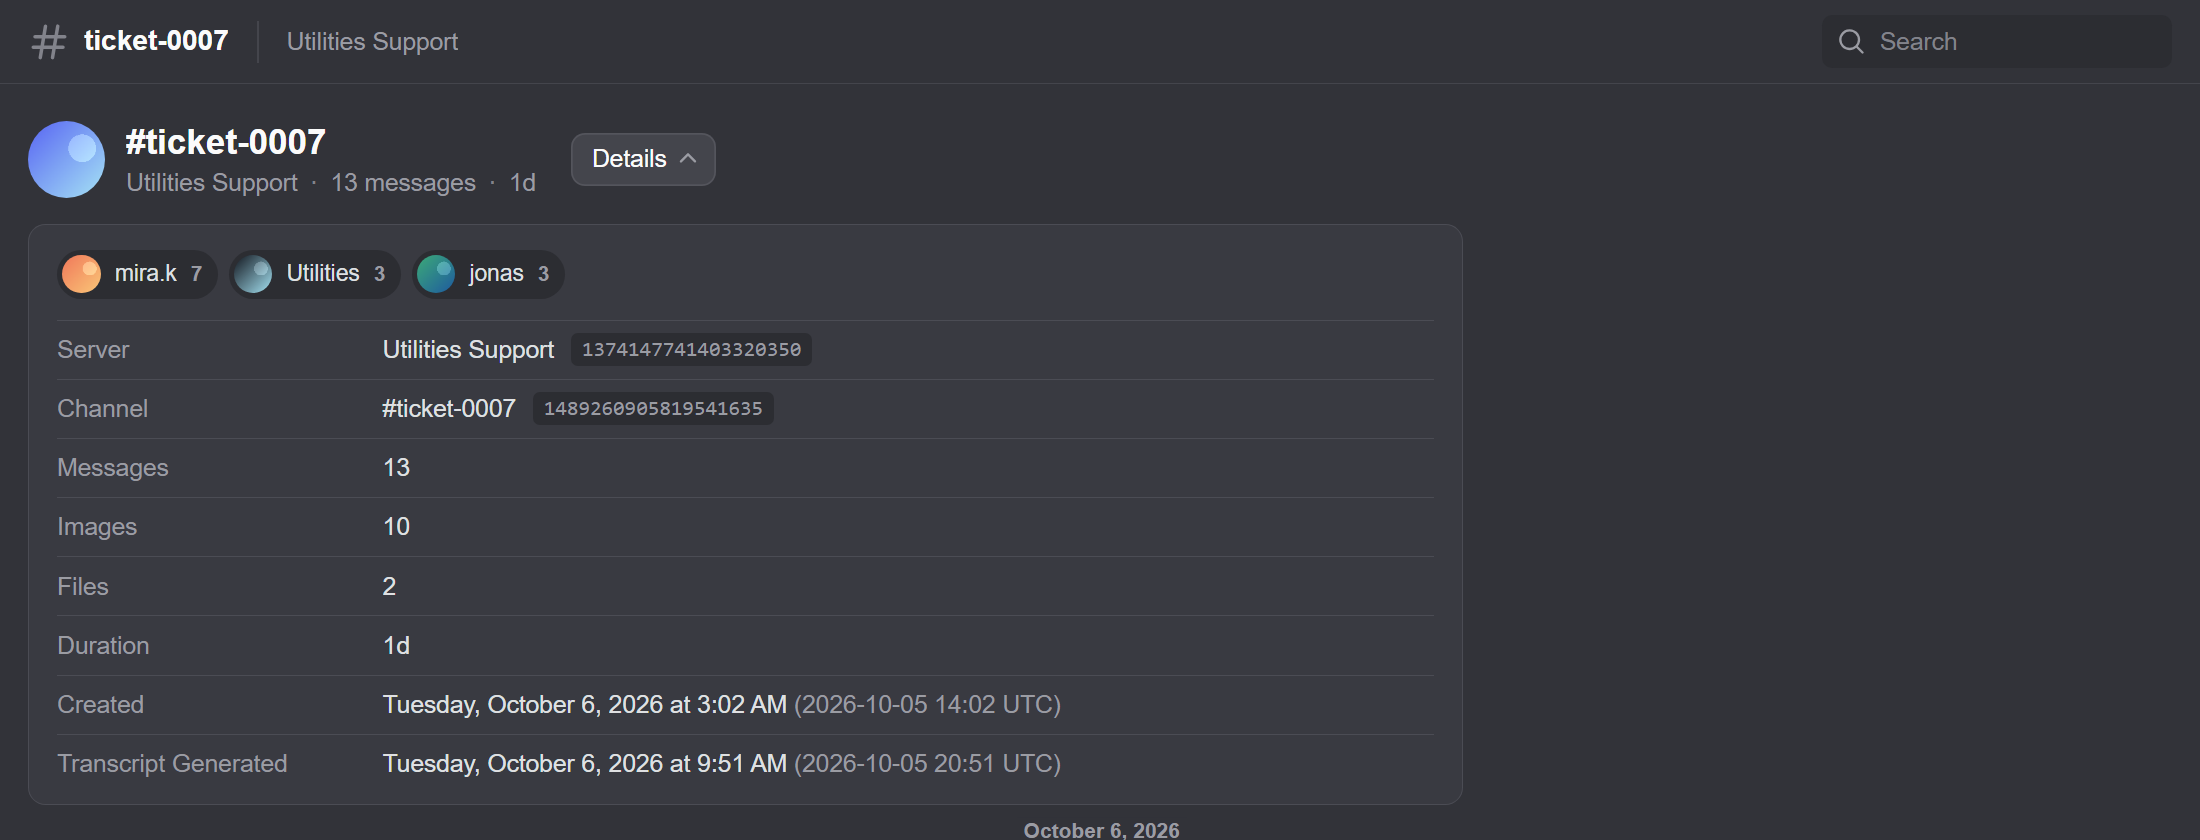
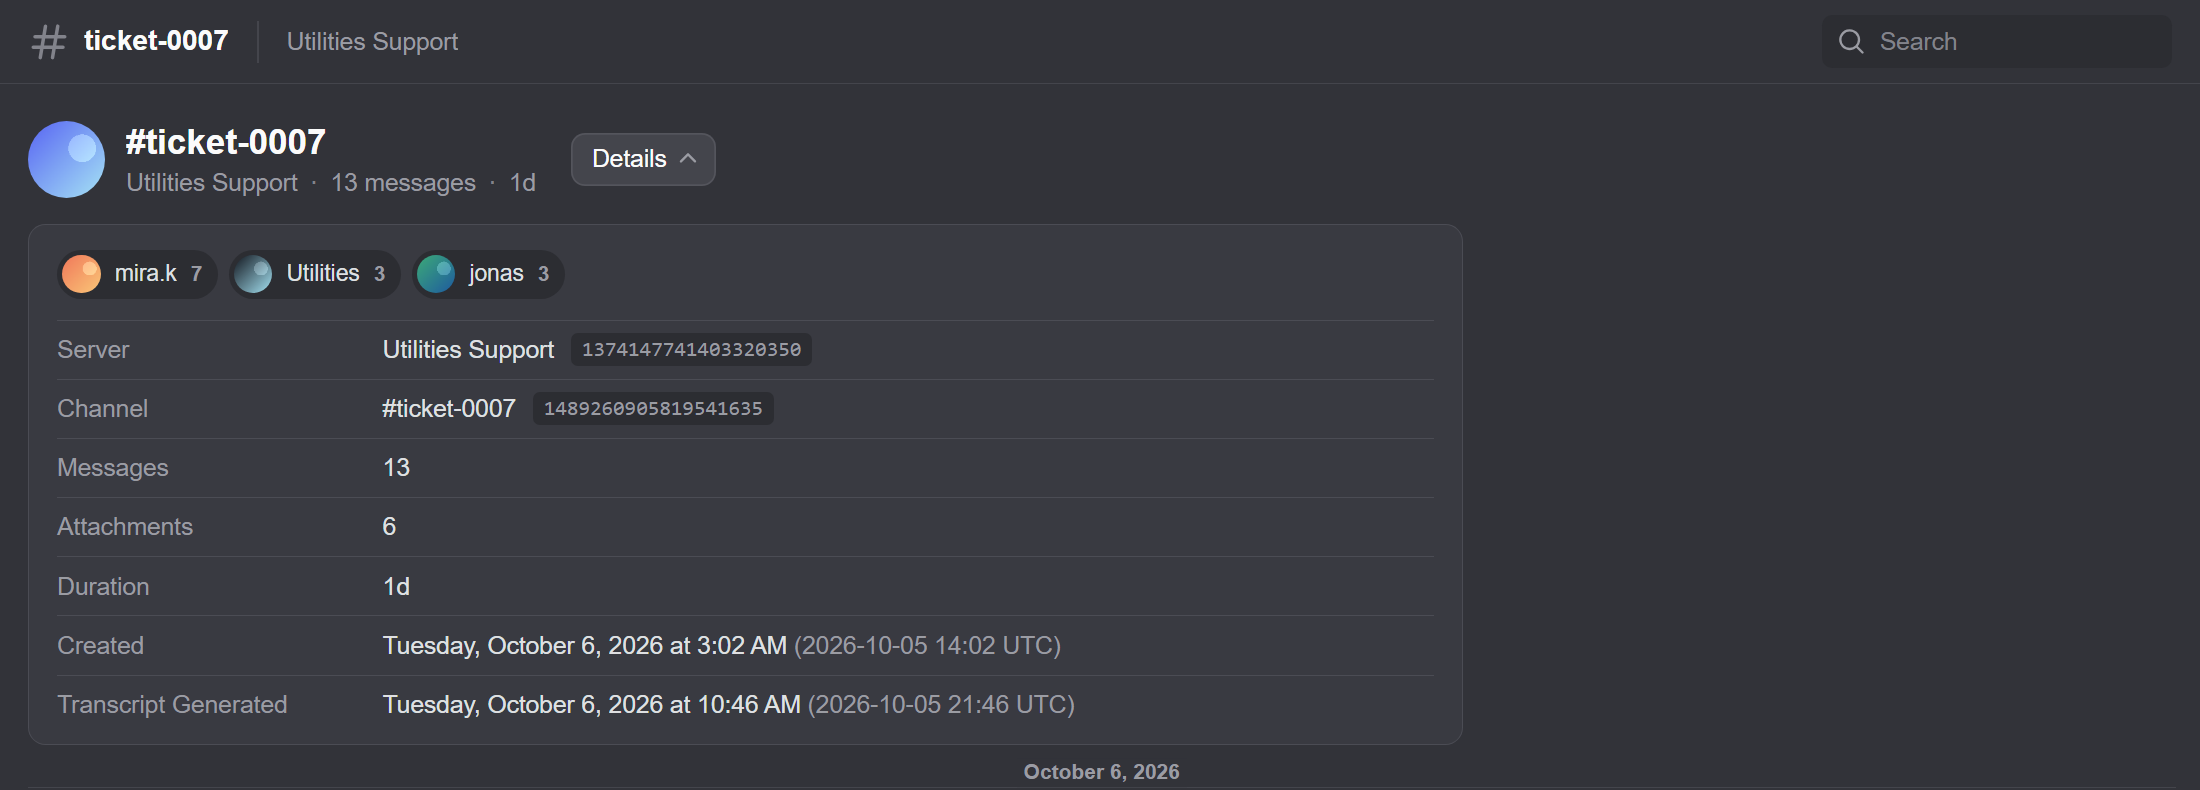
Details say "Attachments", and count only what people uploaded
"Images" counted everything saved in the file, so a ticket of six plain
messages said it had four images: the avatars and an emoji. The row is
now "Attachments" and counts the pictures, voice messages and files
people uploaded that are saved in the transcript, read from the messages
themselves. It replaces the separate Images and Files rows, in the
details panel and in the file's own header.

diff --git a/test/transcript.test.js b/test/transcript.test.js
@@ -119,21 +119,21 @@ describe("the file", () => {
    * head is written out — the loader clears the text and sets up the page.
    */
   it("is three plain blocks: the server, the people, and the transcript", () => {
-    const html = buildHtml(collected().payload, { stats: { saved: 3, skipped: 1 } });
+    const html = buildHtml(collected().payload);
     const lines = html.split("\n");
 
     assert.deepEqual(lines.slice(0, 4), [
       "<Transcript>",
-      "    Server    Utilities Support (1374147741403320350)",
-      "    Channel   #ticket-0007 (1489260905819541635)",
+      "    Server       Utilities Support (1374147741403320350)",
+      "    Channel      #ticket-0007 (1489260905819541635)",
       lines[3],
     ]);
-    assert.match(lines[3], /^    Created   \d{4}-\d\d-\d\d \d\d:\d\d UTC$/);
-    assert.deepEqual(lines.slice(4, 16), [
-      "    Messages  13 saved",
-      "    Images    3 saved, 1 skipped",
-      "    Files     0 saved",
-      "    Skipped   over the file size limit, or no longer on Discord",
+    assert.match(lines[3], /^    Created      \d{4}-\d\d-\d\d \d\d:\d\d UTC$/);
+    assert.deepEqual(lines.slice(4, 15), [
+      "    Messages     13 saved",
+      // Nothing was downloaded for this one, so every upload reads as skipped.
+      "    Attachments  0 saved, 7 skipped",
+      "    Skipped      over the file size limit, or no longer on Discord",
       "",
       "<Participants>",
       "    7  mira.k     497562304498368513",
@@ -141,17 +141,36 @@ describe("the file", () => {
       "    3  jonas      612345678901234567",
       "",
       "<Conversation>",
-      lines[15],
+      lines[14],
     ]);
-    assert.equal(lines.length, 17, "nothing else: the last block is one line, then the file ends");
+    assert.equal(lines.length, 16, "nothing else: the last block is one line, then the file ends");
     assert.equal(html.startsWith("<Transcript>"), true);
-    assert.match(lines[15], /d\.body\.textContent="";/, "the loader clears the plain text before the transcript is drawn");
+    assert.match(lines[14], /d\.body\.textContent="";/, "the loader clears the plain text before the transcript is drawn");
+  });
+
+  /**
+   * "Attachments" is what people uploaded — pictures, voice messages, files —
+   * and nothing else. It was "Images", counted from everything saved, and a
+   * ticket of six plain messages said it had four: the avatars and an emoji.
+   */
+  it("counts what people uploaded, not the avatars and emoji saved to draw them", async () => {
+    const { payload, wanted } = collected();
+    await embedAssets(payload, wanted, { fetch: fakeFetch() });
+
+    assert.ok(Object.keys(payload.assets).length > 7, "avatars and emoji are saved as well");
+    assert.match(buildHtml(payload), /^    Attachments  6 saved, 1 skipped$/m);
   });
 
   it("says nothing about skipping when nothing was skipped", () => {
-    const html = buildHtml(collected().payload, { stats: { saved: 10, skipped: 0 } });
+    const { payload } = collected();
+    for (const message of payload.messages) {
+      for (const file of [...(message.attachments ?? []), ...(message.forwarded?.attachments ?? [])]) {
+        payload.assets[file.url] = "data:application/octet-stream;base64,AAAA";
+      }
+    }
+    const html = buildHtml(payload);
 
-    assert.match(html, /^    Images    10 saved\n    Files     0 saved\n\n<Participants>$/m);
+    assert.match(html, /^    Attachments  7 saved\n\n<Participants>$/m);
     assert.equal(html.split("<Conversation>")[0].includes("kipped"), false);
   });
 
@@ -163,7 +182,7 @@ describe("the file", () => {
     const head = buildHtml(payload).split("<Conversation>")[0];
 
     assert.equal(/<script|<img/i.test(head), false);
-    assert.match(head, /Server    &lt;script&gt;alert\(1\)&lt;\/script&gt;/);
+    assert.match(head, /Server       &lt;script&gt;alert\(1\)&lt;\/script&gt;/);
   });
 
   it("is reported modified when its data is edited", () => {
@@ -575,7 +594,7 @@ describe("the viewer", () => {
 
   /**
    * The details list is a layout that was written out, row for row. It is
-   * these eight, in this order, and nothing that was not asked for.
+   * these seven, in this order, and nothing that was not asked for.
    */
   it("lists the details exactly as laid out", async () => {
     const { payload, wanted } = collected();
@@ -585,18 +604,18 @@ describe("the viewer", () => {
     const list = /<dl class="tr-list">(.*?)<\/dl>/s.exec(html)[1];
     const rows = [...list.matchAll(/<dt>(.*?)<\/dt><dd>(.*?)<\/dd>/gs)].map(([, label, value]) => [label, value.replace(/<[^>]+>/g, "")]);
 
-    assert.deepEqual(rows.map(([label]) => label), ["Server", "Channel", "Messages", "Images", "Files", "Duration", "Created", "Transcript Generated"]);
-    assert.deepEqual(rows.slice(0, 5), [
+    assert.deepEqual(rows.map(([label]) => label), ["Server", "Channel", "Messages", "Attachments", "Duration", "Created", "Transcript Generated"]);
+    assert.deepEqual(rows.slice(0, 4), [
       ["Server", "Utilities Support 1374147741403320350"],
       ["Channel", "#ticket-0007 1489260905819541635"],
       ["Messages", "13"],
-      ["Images", "10"],
-      ["Files", "2"],
+      // Four pictures, a spreadsheet and a voice message. The video is gone from Discord.
+      ["Attachments", "6"],
     ]);
-    assert.match(rows[5][1], /^1d/);
+    assert.match(rows[4][1], /^1d/);
     // A date in the reader's own time, then the same moment in UTC.
-    assert.match(rows[6][1], /2026.* \(2026-10-05 14:02 UTC\)$/);
-    assert.match(rows[7][1], / \(\d{4}-\d\d-\d\d \d\d:\d\d UTC\)$/);
+    assert.match(rows[5][1], /2026.* \(2026-10-05 14:02 UTC\)$/);
+    assert.match(rows[6][1], / \(\d{4}-\d\d-\d\d \d\d:\d\d UTC\)$/);
     assert.match(html, /<b>#ticket-0007<\/b><span class="tr-top__line"><span>Utilities Support<\/span><span>13 messages<\/span><span>1d/);
     assert.match(list, /data-copy="1374147741403320350"/);
     assert.equal(/Exported|Time zone|First message|Last message|skipped/.test(list), false);
@@ -674,7 +693,7 @@ describe("createTranscript", () => {
     assert.equal(result.messageCount, 13);
     assert.equal(result.images.skipped, 0);
     assert.deepEqual(result.files, { saved: 2, skipped: 1, bytes: 41 + 16044 });
-    assert.match(result.html, /^    Images    10 saved\n    Files     2 saved, 1 skipped\n    Skipped   over the file size limit, or no longer on Discord$/m);
+    assert.match(result.html, /^    Attachments  6 saved, 1 skipped\n    Skipped      over the file size limit, or no longer on Discord$/m);
     assert.deepEqual(readTranscript(result.html).payload.stats, { images: { saved: 10, skipped: 0 }, files: { saved: 2, skipped: 1 } });
     assert.equal(result.participants[0].username, "mira.k");
     assert.equal(verifyTranscript(result.html), "intact");
@@ -711,7 +730,7 @@ describe("createTranscript", () => {
     assert.equal(result.messageCount + result.truncated, long.length);
     assert.equal(payload.messages.at(-1).id, long.at(-1).id, "the newest message is the one that is kept");
     assert.equal(payload.truncated, result.truncated);
-    assert.match(result.html, /^    Messages  \d+ saved, \d+ skipped$/m);
+    assert.match(result.html, /^    Messages     \d+ saved, \d+ skipped$/m);
     assert.match(viewer.render(payload, {}), /skipped to keep this file within its size limit/);
   });
 

diff --git a/src/html.js b/src/html.js
@@ -69,7 +69,7 @@ const safe = (value) =>
     .replace(/>/g, "&gt;");
 
 /** The label column's width: the longest label and two spaces. */
-const LABEL = 10;
+const LABEL = 13;
 
 /** One row of the first block: a label, padded so the values line up. */
 const row = (label, value) => `    ${label.padEnd(LABEL)}${value}`;
@@ -82,7 +82,7 @@ const row = (label, value) => `    ${label.padEnd(LABEL)}${value}`;
  * anything. Set out as two small tables — labels on the left, and the people
  * in columns — so it reads at a glance and lines up in a fixed-width font.
  */
-function summary(payload, stats) {
+function summary(payload) {
   const counts = new Map();
   for (const message of payload.messages) {
     if (message.author) counts.set(message.author, (counts.get(message.author) ?? 0) + 1);
@@ -93,11 +93,15 @@ function summary(payload, stats) {
   const widest = (field) => Math.max(0, ...spoke.map((one) => one[field].length));
   const [countWidth, nameWidth] = [widest("count"), Math.min(32, widest("name"))];
   const exported = new Date(payload.exportedAt).toISOString().replace("T", " ").slice(0, 16);
-  const images = stats ?? payload.stats?.images ?? { saved: 0, skipped: 0 };
-  const files = payload.stats?.files ?? { saved: 0, skipped: 0 };
-  // "10 saved", or "10 saved, 2 skipped" — the second half only when there is something to say.
-  const kept = (one) => `${String(one.saved)} saved` + (one.skipped > 0 ? `, ${String(one.skipped)} skipped` : "");
-  const anySkipped = images.skipped + files.skipped + (payload.truncated ?? 0) > 0;
+  // What people uploaded, and how much of it is saved in this file. Counted from the messages:
+  // the avatars and emoji saved to draw them are not attachments.
+  const uploads = payload.messages.flatMap((message) => [
+    ...(message.attachments ?? []),
+    ...(message.forwarded?.attachments ?? []),
+  ]);
+  const saved = uploads.filter((file) => typeof payload.assets?.[file.url] === "string").length;
+  const skipped = uploads.length - saved;
+  const anySkipped = skipped + (payload.truncated ?? 0) > 0;
 
   return [
     "<Transcript>",
@@ -105,8 +109,7 @@ function summary(payload, stats) {
     row("Channel", `#${safe(payload.channel.name)} (${safe(payload.channel.id)})`),
     row("Created", `${exported} UTC`),
     row("Messages", `${String(payload.messages.length)} saved` + (payload.truncated ? `, ${String(payload.truncated)} skipped` : "")),
-    row("Images", kept(images)),
-    row("Files", kept(files)),
+    row("Attachments", `${String(saved)} saved` + (skipped > 0 ? `, ${String(skipped)} skipped` : "")),
     // One line of why, and only when something was skipped.
     ...(anySkipped ? [row("Skipped", "over the file size limit, or no longer on Discord")] : []),
     "",
@@ -124,7 +127,7 @@ export function buildHtml(payload, options = {}) {
   const envelope = pack(payload, { signingKey: options.signingKey });
 
   return [
-    summary(payload, options.stats),
+    summary(payload),
     "",
     "<Conversation>",
     // Base64 and a handful of fixed keys: nothing in either block can close its element.

diff --git a/src/viewer/viewer.js b/src/viewer/viewer.js
@@ -537,8 +537,20 @@ function peopleHtml(c, order, counts){
 }
 /* The details list, exactly these rows in this order and nothing else. "Created" is when the
    ticket's first message was sent; both dates are the reader's own time with UTC beside it. */
+/* What people uploaded that is saved in this file: pictures, voice messages, any other file.
+   Counted from the messages themselves, so it is never the avatars and emoji saved to draw them
+   (which is what "Images" once counted, on a ticket with no image in it). */
+function savedAttachments(c){
+  var n = 0;
+  (c.p.messages || []).forEach(function(m){
+    [m.attachments, m.forwarded && m.forwarded.attachments].forEach(function(list){
+      (list || []).forEach(function(a){ if (a.kind === "image" ? isPicture(c.assets[a.url]) : savedFile(c, a.url)) n++; });
+    });
+  });
+  return n;
+}
 function detailsHtml(c){
-  var p = c.p, g = p.guild || {}, ch = p.channel || {}, msgs = p.messages || [], st = p.stats || {};
+  var p = c.p, g = p.guild || {}, ch = p.channel || {}, msgs = p.messages || [];
   var first = msgs.length ? msgs[0].ts : null, last = msgs.length ? msgs[msgs.length - 1].ts : null, made = p.exportedAt || Date.now();
   var id = function(v){ return v ? ' <button class="tr-id" type="button" data-copy="' + esc(v) + '" title="Copy ID">' + esc(v) + "</button>" : ""; };
   var when = function(ms){ return esc(fullDate(new Date(ms))) + ' <span class="tr-dim">(' + esc(utcText(ms)) + ")</span>"; };
@@ -546,8 +558,7 @@ function detailsHtml(c){
   return row("Server", esc(g.name || "Unknown") + id(g.id)) +
     row("Channel", "#" + esc(ch.name || "unknown") + id(ch.id)) +
     row("Messages", String(msgs.length)) +
-    row("Images", String(st.images ? st.images.saved : Object.keys(c.assets).length)) +
-    row("Files", String(st.files ? st.files.saved : 0)) +
+    row("Attachments", String(savedAttachments(c))) +
     row("Duration", first && last && last > first ? lasted(last - first) : "") +
     row("Created", first ? when(first) : "") +
     row("Transcript Generated", when(made));
